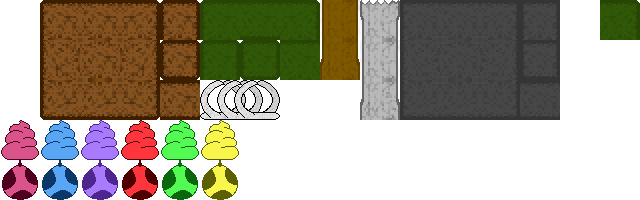
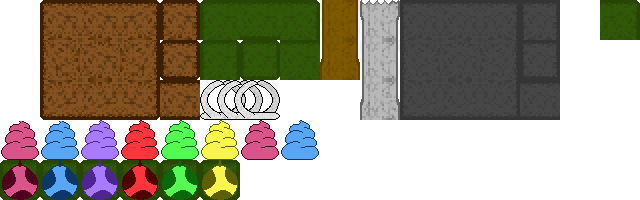
tweaks for selfie

Changed region(s): [[0.0, 0.6, 0.5, 0.9], [0.0, 0.93, 0.375, 1.0]]

diff --git a/src/terrain.rs b/src/terrain.rs
@@ -21,6 +21,7 @@ pub struct Tiles;
 impl Tiles {
     pub const AIR: u32 = 0;
     pub const DIRT: u32 = 2;
+    pub const DIRT2: u32 = 18;
     pub const ROCK: u32 = 11;
     pub const LEAVES: u32 = 7;
     pub const STALK: u32 = 8;
@@ -169,19 +170,19 @@ fn get_tile_idx(x: u32, y:u32, size: TilemapSize) -> TileTextureIndex {
 
     let tilemap = b"\
     .1.....................\
-    .t..............1......\
+    .t..............L......\
     .t..............t...###\
     ######..........t.##...\
     ................##.....\
-    ............2.........#\
-    ....####....t....######\
+    ............2......LL.#\
+    ....LLLL....t....#####%\
     .a..........t.b........\
     ##.........####........\
-    ..#..............###...\
+    L.#..............###...\
     ...#...........L.......\
     ...............t.......\
-    ........XXXX...t.......\
-    #######XXX########..#XX\
+    ###......a.....t....###\
+    %%%#################%XX\
     XXXXXXXXXXXXXXXXXXXXXXX";
 
     // TODO: how to do this nicely?
@@ -194,6 +195,7 @@ fn get_tile_idx(x: u32, y:u32, size: TilemapSize) -> TileTextureIndex {
 
     let idx = match ch {
         b'#' => Tiles::DIRT,
+        b'%' => Tiles::DIRT2,
         b'X' => Tiles::ROCK,
         b'1' => Tiles::POO_PINK,
         b'a' => Tiles::EGG_PINK,
